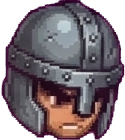
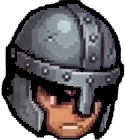
Body animation: X/Y slider bars, critical positions, foot hides leg, dark helmet outline
Claude-Session: https://claude.ai/code/session_01W4v7cyzS6Fr8aMVaGgywWE

diff --git a/tools/body-animation/index.html b/tools/body-animation/index.html
@@ -101,12 +101,12 @@ const GEAR = {
     garment: { lv10: { src: 'gear/garment/ssblockmanteaulv10.png', x: 170, y: 110, sc: 1 } }
   },
   critical: {
-    helmet: { shoplv10: { src: 'gear/helmet/hatsscriticallv10.png', x: 292, y: 64, sc: 1 } },
+    helmet: { shoplv10: { src: 'gear/helmet/hatsscriticallv10.png', x: 267, y: 59, sc: 1 } },
     wear: { lv10: { src: 'gear/wear/sscriticalarmorlv10.png', x: 191, y: 72, sc: 1 } },
-    sword: { lv10: { src: 'gear/critical/sscriticalsword.png', x: 60, y: 34, sc: 1 }, lv1: { src: 'gear/critical/sscriticalsword_lv1.png', x: 60, y: 34, sc: 1 } },
+    sword: { lv10: { src: 'gear/critical/sscriticalsword.png', x: 27, y: 63, sc: 1 }, lv1: { src: 'gear/critical/sscriticalsword_lv1.png', x: 60, y: 34, sc: 1 } },
     shield: { lv10: { src: 'gear/shield/ssshield.png', x: 390, y: 139, sc: 1 } },
-    foot: { lv10: { src: 'gear/foot/sscriticalfootlv10.png', x: 133, y: 256, sc: 1 } },
-    garment: { lv10: { src: 'gear/garment/sscriticalmanteaulv10.png', x: 181, y: 92, sc: 1 } }
+    foot: { lv10: { src: 'gear/foot/sscriticalfootlv10.png', x: 145, y: 268, sc: 1 } },
+    garment: { lv10: { src: 'gear/garment/sscriticalmanteaulv10.png', x: 166, y: 132, sc: 1 } }
   }
 };
 
@@ -145,8 +145,8 @@ const POSES = {
     label: 'critical',
     parts: [
       { id: 'leg',       name: 'Leg',        src: 'critical/dcriticalleg.png',       x: 98,  y: 237, sc: 1 },
-      { id: 'armor',     name: 'Armor',      src: 'critical/dcriticalarmor.png',     x: 189, y: 95,  sc: 1 },
-      { id: 'head',      name: 'Head',       src: 'critical/dcriticalhead.png',      x: 287, y: 61,  sc: 1 },
+      { id: 'armor',     name: 'Armor',      src: 'critical/dcriticalarmor.png',     x: 214, y: 95,  sc: 1 },
+      { id: 'head',      name: 'Head',       src: 'critical/dcriticalhead.png',      x: 263, y: 52,  sc: 1 },
       { id: 'lefthand',  name: 'Left hand',  src: 'critical/dcriticallefthand.png',  x: 244, y: 38,  sc: 0.8 },
       { id: 'righthand', name: 'Right hand', src: 'critical/dcriticalrighthand.png', x: 419, y: 212, sc: 1 }
     ]
@@ -158,7 +158,7 @@ const LAYER_ORDER = {
   base:     ['leg', 'foot', 'garment', 'armor', 'wear', 'head', 'helmet', 'sword', 'lefthand', 'righthand', 'shield'],
   attack:   ['shield', 'leg', 'foot', 'garment', 'armor', 'wear', 'head', 'helmet', 'sword', 'lefthand', 'righthand'],
   block:    ['leg', 'foot', 'garment', 'armor', 'wear', 'head', 'helmet', 'sword', 'lefthand', 'righthand', 'shield'],
-  critical: ['leg', 'foot', 'garment', 'armor', 'wear', 'sword', 'head', 'helmet', 'lefthand', 'righthand', 'shield']
+  critical: ['garment', 'foot', 'leg', 'armor', 'wear', 'sword', 'head', 'helmet', 'lefthand', 'righthand', 'shield']
 };
 
 const canvas = document.getElementById('c');
@@ -212,8 +212,8 @@ function orderFor(poseKey) {
 }
 
 // Default body parts hidden while something is worn in that slot. Sword layers already show the gripping hand,
-// worn armor replaces the body armor, and a worn helmet replaces the head.
-const SLOT_HIDES = { helmet: ['head'], wear: ['armor'], sword: ['lefthand'] };
+// worn armor replaces the body armor, a worn helmet replaces the head, and worn boots replace the leg.
+const SLOT_HIDES = { helmet: ['head'], wear: ['armor'], sword: ['lefthand'], foot: ['leg'] };
 
 // Build the draw list for the current pose from its layer order.
 function drawList(poseKey) {
@@ -333,6 +333,9 @@ function layerItem(poseKey, id) {
   return { label: part.name, obj: part };
 }
 
+// Range of the X and Y slider bars, in page pixels.
+const BAR_MIN = -200, BAR_MAX = 700;
+
 function buildPosRows() {
   const box = document.getElementById('pos');
   box.querySelectorAll('.row').forEach(r => r.remove());
@@ -367,14 +370,33 @@ function buildPosRows() {
       const inp = document.createElement('input');
       inp.type = 'number';
       inp.step = '1';
-      inp.style.width = '80px';
+      inp.style.width = '70px';
+      const bar = document.createElement('input');
+      bar.type = 'range';
+      bar.min = String(BAR_MIN);
+      bar.max = String(BAR_MAX);
+      bar.step = '1';
+      bar.style.width = '110px';
       if (it.obj) {
+        const clamp = v => Math.max(BAR_MIN, Math.min(BAR_MAX, v));
         inp.value = it.obj[axis];
-        inp.oninput = () => { if (inp.value !== '') it.obj[axis] = Math.round(+inp.value); };
+        bar.value = clamp(it.obj[axis]);
+        inp.oninput = () => {
+          if (inp.value === '') return;
+          const v = Math.round(+inp.value);
+          it.obj[axis] = v;
+          bar.value = clamp(v);
+        };
+        bar.oninput = () => {
+          it.obj[axis] = +bar.value;
+          inp.value = bar.value;
+        };
       } else {
         inp.disabled = true;
+        bar.disabled = true;
       }
       lab.appendChild(inp);
+      lab.appendChild(bar);
       row.appendChild(lab);
     }
     box.appendChild(row);
